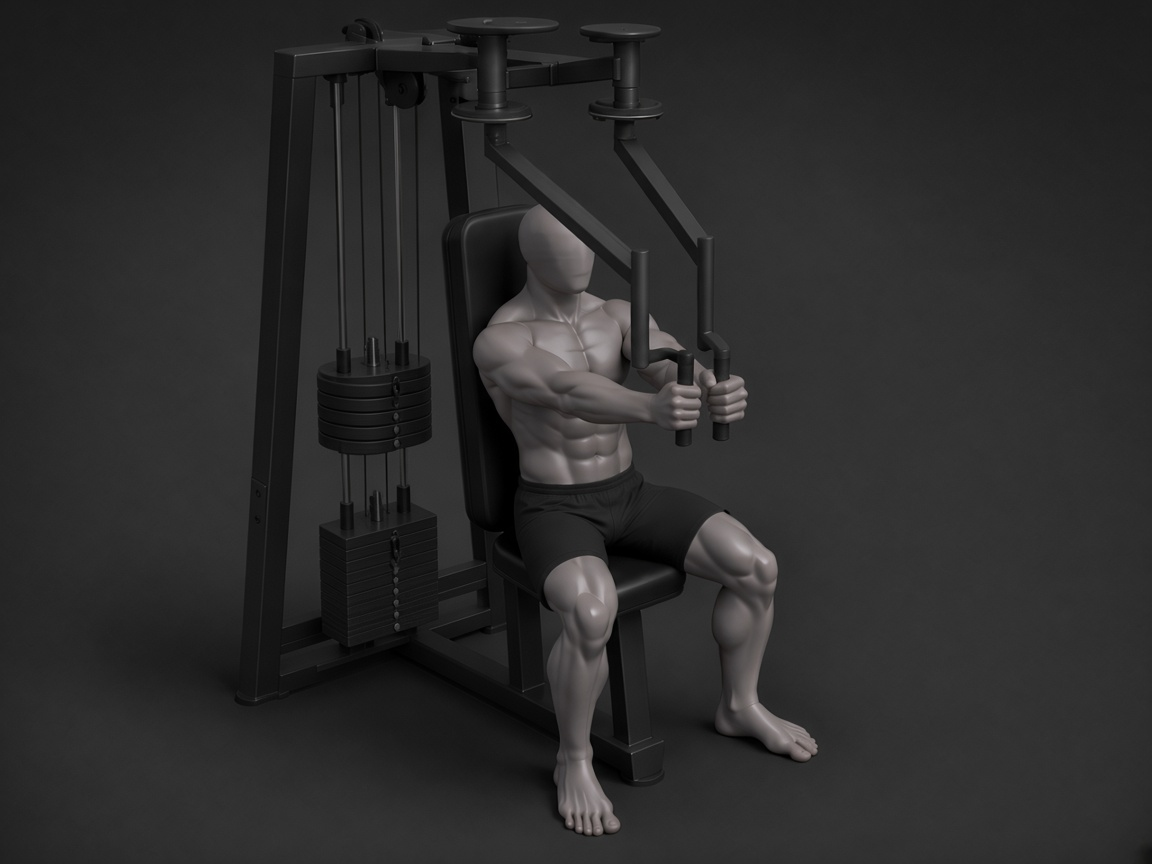
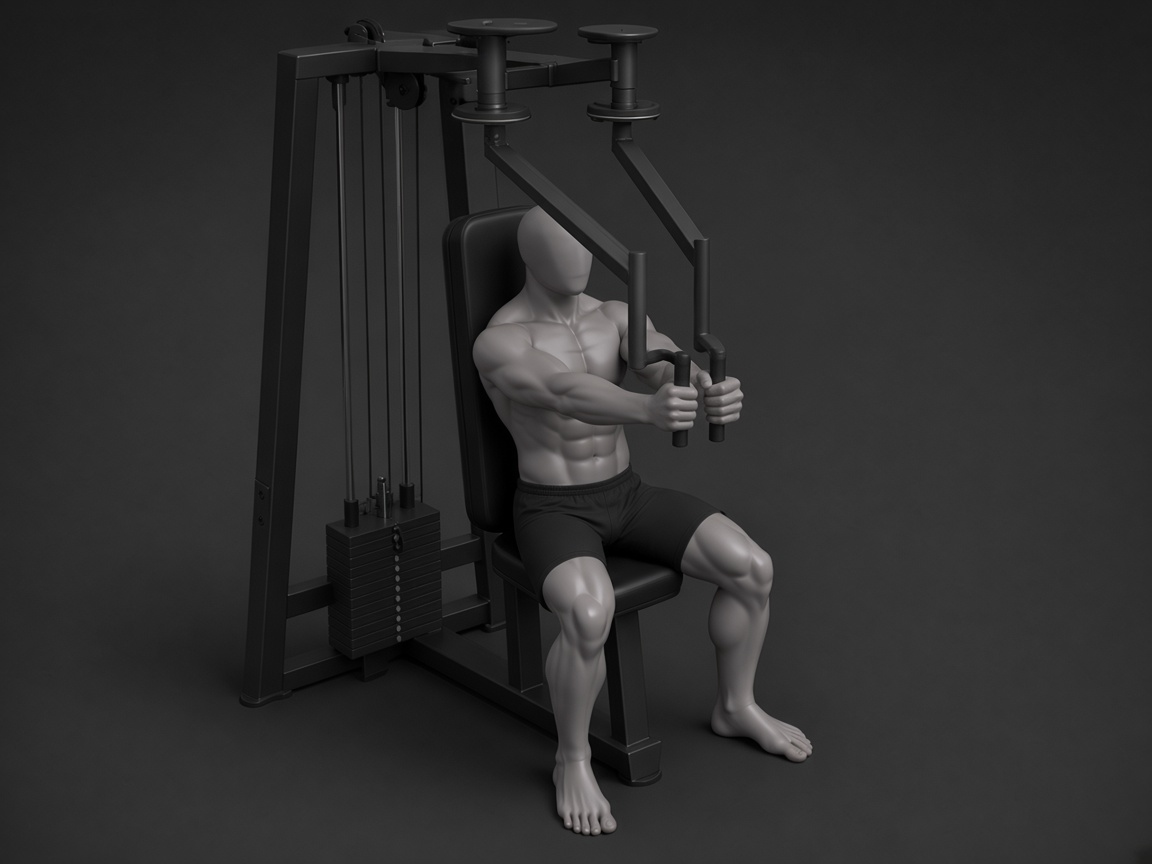
Ship chest demo loops in the app and replace older stills with the current unpainted versions.

diff --git a/app/src/test/java/com/bool/gymtracker/domain/ExerciseDemoTest.kt b/app/src/test/java/com/bool/gymtracker/domain/ExerciseDemoTest.kt
@@ -9,33 +9,20 @@ import org.junit.Test
 class ExerciseDemoTest {
     @Test
     fun mapsTheShippedLifts() {
-        val barbell = ExerciseDemos.forName("Barbell bench press")!!
-        assertEquals("exercises/barbell_bench_press_lockout.png", barbell.lockoutAsset)
-        assertEquals(3, barbell.tips.size)
-
-        val bench = ExerciseDemos.forName("Dumbbell bench press")!!
-        assertEquals("exercises/dumbbell_bench_press_lockout.png", bench.lockoutAsset)
-        assertEquals(3, bench.tips.size)
-
-        val smith = ExerciseDemos.forName("Smith bench press")!!
-        assertEquals("exercises/smith_bench_press_lockout.png", smith.lockoutAsset)
-        assertEquals(3, smith.tips.size)
-
-        val inclineBarbell = ExerciseDemos.forName("Incline barbell press")!!
-        assertEquals("exercises/incline_barbell_press_lockout.png", inclineBarbell.lockoutAsset)
-        assertEquals(3, inclineBarbell.tips.size)
-
-        val inclineSmith = ExerciseDemos.forName("Incline Smith bench press")!!
-        assertEquals("exercises/incline_smith_bench_press_lockout.png", inclineSmith.lockoutAsset)
-        assertEquals(3, inclineSmith.tips.size)
-
-        val incline = ExerciseDemos.forName("Incline dumbbell press")!!
-        assertEquals("exercises/incline_dumbbell_press_bottom.png", incline.bottomAsset)
-        assertEquals(3, incline.tips.size)
-
-        val pecDeck = ExerciseDemos.forName("Pec deck fly")!!
-        assertEquals("exercises/pec_deck_fly_lockout.png", pecDeck.lockoutAsset)
-        assertEquals(3, pecDeck.tips.size)
+        val names = listOf(
+            "Barbell bench press" to "exercises/barbell_bench_press_lockout.png",
+            "Dumbbell bench press" to "exercises/dumbbell_bench_press_lockout.png",
+            "Smith bench press" to "exercises/smith_bench_press_lockout.png",
+            "Incline barbell press" to "exercises/incline_barbell_press_lockout.png",
+            "Incline Smith bench press" to "exercises/incline_smith_bench_press_lockout.png",
+            "Incline dumbbell press" to "exercises/incline_dumbbell_press_lockout.png",
+            "Pec deck fly" to "exercises/pec_deck_fly_lockout.png",
+        )
+        names.forEach { (name, lockout) ->
+            val demo = ExerciseDemos.forName(name)!!
+            assertEquals(lockout, demo.lockoutAsset)
+            assertEquals(3, demo.tips.size)
+        }
     }
 
     @Test

diff --git a/docs/tasks.md b/docs/tasks.md
@@ -37,13 +37,35 @@ Mark a box `[x]` when that item is done.
 
 ### Exercise demos (remaining lifts)
 
-- [ ] Two stills per lift (`lockout` + `bottom`) for remaining built-ins (`docs/exercise-demo-criteria.md`). Chest barbell/Smith presses: bar on mid-chest at bottom, elbows ~45°; lockout with straight elbows. No loops until asked. Stills stay unpainted.
+Two stills per lift (`lockout` + `bottom`); loop when asked. Stills stay unpainted (`docs/exercise-demo-criteria.md`).
+
+- [ ] **Chest**
+  - [x] Barbell bench press (stills + loop)
+  - [x] Dumbbell bench press (stills + loop)
+  - [x] Incline barbell press (stills + loop)
+  - [x] Incline dumbbell press (stills + loop)
+  - [x] Smith bench press (stills + loop)
+  - [x] Incline Smith bench press (stills + loop)
+  - [x] Pec deck fly (stills + loop)
+  - [ ] Chest press machine
+  - [ ] Dips
+  - [ ] Push-up
+  - [ ] Chest fly
+  - [ ] Cable fly
+- [ ] **Back**
+- [ ] **Shoulders**
+- [ ] **Arms**
+- [ ] **Legs**
+- [ ] **Abs**
+- [ ] **Other**
 
 ### Animation integration
 
 Integrate exercise characters/loops in the app (built-in lifts only; custom exercises stay without a demo).
 
-**First pass:** **Barbell bench press**, **Dumbbell bench press**, **Smith bench press**, **Incline barbell press**, **Incline Smith bench press**, **Incline dumbbell press**, and **Pec deck fly** have demos. Other cards get the same chrome and main/auxiliary muscles; thumbnail/animation/how-to stay empty until their demos exist.
+- [x] **Chest:** all finished demos in the app (Barbell bench press, Dumbbell bench press, Incline barbell press, Incline dumbbell press, Smith bench press, Incline Smith bench press, Pec deck fly). Unpainted stills + two-frame loops; picker/program-day thumbnail and demo screen.
+
+**Remaining muscles:** other cards get the same chrome and main/auxiliary muscles; thumbnail/animation/how-to stay empty until their demos exist.
 
 **Customize (exercise picker)**
 

diff --git a/docs/exercise-demo-criteria.md b/docs/exercise-demo-criteria.md
@@ -84,11 +84,11 @@ Aligns bottom to lockout, crops, writes a two-frame animated PNG.
 - `content/exercises/_character/muscle-map.jpg` — labeled front/back chart (reference only)
 - `content/exercises/barbell-bench-press/` — unpainted `lockout.png`, `bottom.png`, `loop.png`
 - `content/exercises/dumbbell-bench-press/` — unpainted `lockout.png`, `bottom.png`, `loop.png`
-- `content/exercises/incline-barbell-press/` — unpainted `lockout.png`, `bottom.png` (no loop yet)
-- `content/exercises/smith-bench-press/` — unpainted `lockout.png`, `bottom.png` (no loop yet)
-- `content/exercises/incline-smith-bench-press/` — unpainted `lockout.png`, `bottom.png` (no loop yet)
+- `content/exercises/incline-barbell-press/` — unpainted `lockout.png`, `bottom.png`, `loop.png`
+- `content/exercises/smith-bench-press/` — unpainted `lockout.png`, `bottom.png`, `loop.png`
+- `content/exercises/incline-smith-bench-press/` — unpainted `lockout.png`, `bottom.png`, `loop.png`
 - `content/exercises/incline-dumbbell-press/` — unpainted `lockout.png`, `bottom.png`, `loop.png`
-- `content/exercises/pec-deck-fly/` — unpainted `lockout.png`, `bottom.png` (no loop yet)
+- `content/exercises/pec-deck-fly/` — unpainted `lockout.png`, `bottom.png`, `loop.png`
 - App copies: `app/src/main/assets/exercises/` — `{slug}_lockout.png`, `{slug}_bottom.png` (and `{slug}.png` loop when it exists) for Barbell bench press, Dumbbell bench press, Smith bench press, Incline barbell press, Incline Smith bench press, Incline dumbbell press, and Pec deck fly
 
 Save new generations under `content/exercises/{slug}/` in this repo (`lockout.png` and `bottom.png` only until loops are requested). Do not leave the only copy in Cursor’s `assets` folder.

diff --git a/docs/changes-log.md b/docs/changes-log.md
@@ -10,6 +10,14 @@ Add a new `- [ ]` item when we agree a product/UI/behavior change (not a bug). C
 
 ## Done
 
+- [x] Chest animation integration: all seven finished chest demos in picker/demo screen; app assets recopy unpainted stills + rebuilt loops. `ExerciseDemos`, `app/src/main/assets/exercises/`.
+
+- [x] Barbell bench press and Incline barbell press two-frame loops. `content/exercises/barbell-bench-press/loop.png`, `content/exercises/incline-barbell-press/loop.png`, and matching `app/src/main/assets/exercises/` copies.
+
+- [x] Smith bench press and Incline Smith bench press two-frame loops. `content/exercises/smith-bench-press/loop.png`, `content/exercises/incline-smith-bench-press/loop.png`, and matching `app/src/main/assets/exercises/` copies.
+
+- [x] Pec deck fly two-frame loop from lockout + bottom. `content/exercises/pec-deck-fly/loop.png` and `app/src/main/assets/exercises/pec_deck_fly.png`.
+
 - [x] Pec deck fly lockout: 4–5 plates rise to shoulder height; remaining plates stay on the base. Pose unchanged. `content/exercises/pec-deck-fly/lockout.png`.
 
 - [x] Pec deck fly lockout: stack rises a small amount (short gap under the plates). Pose matches the bottom still. `content/exercises/pec-deck-fly/lockout.png`.
